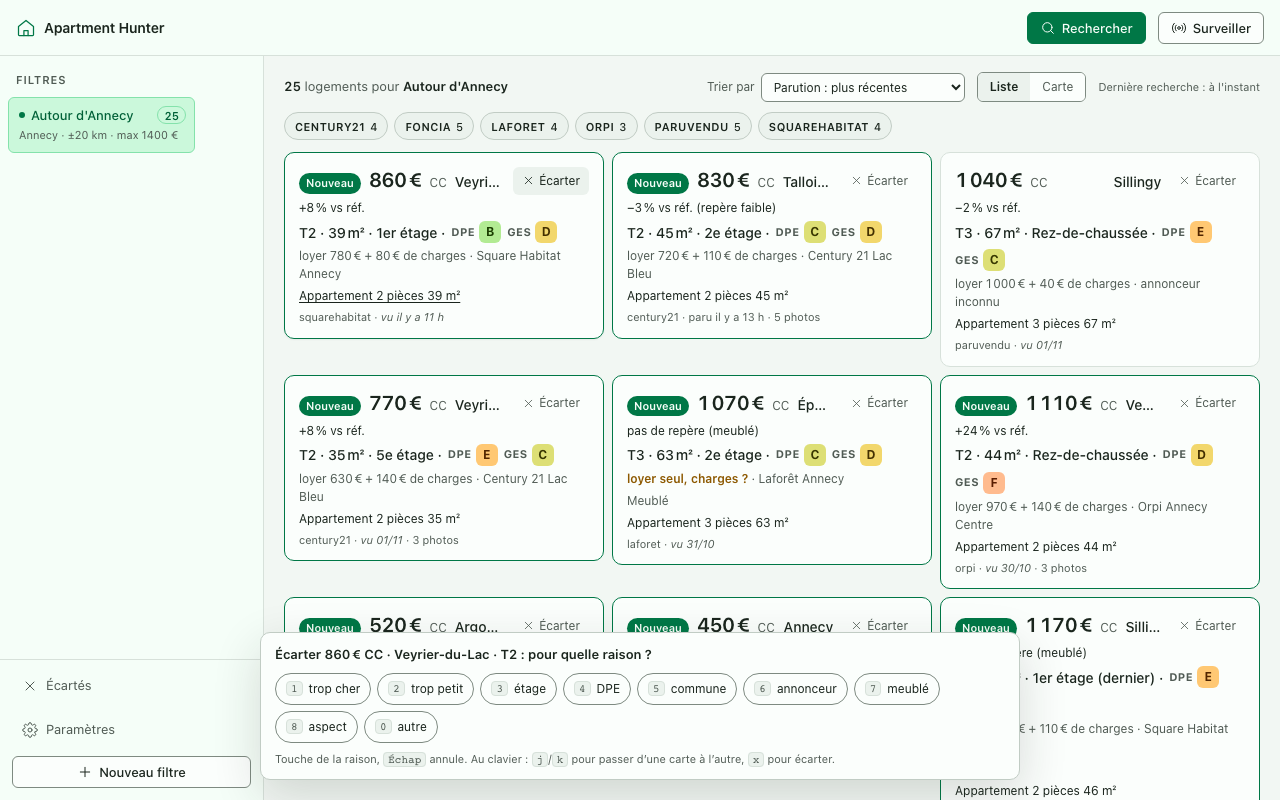
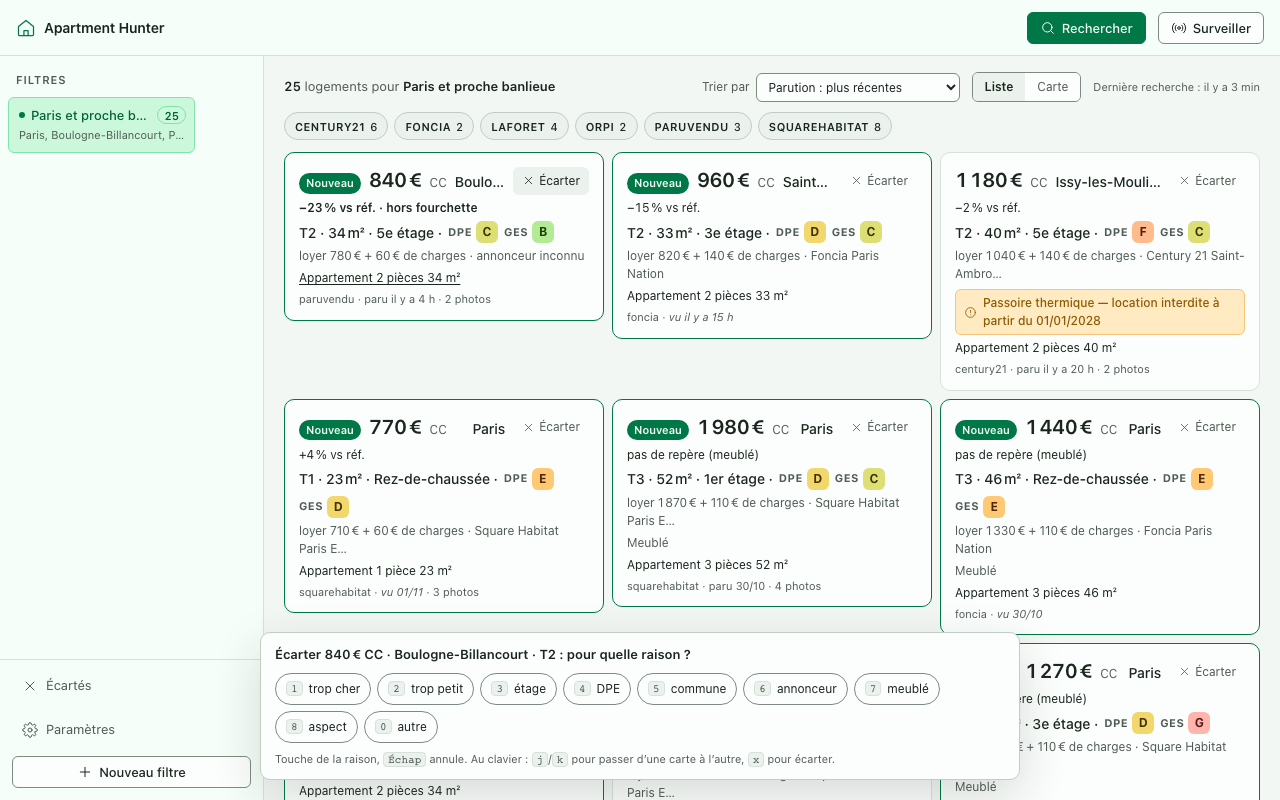
docs(demo): exemples, démo et captures à Paris

diff --git a/src/apartment_hunter/presentation/web/assets/index.html b/src/apartment_hunter/presentation/web/assets/index.html
@@ -95,7 +95,7 @@ catch { document.documentElement.dataset.theme = DEFAULT_THEME; }
         <legend>Zone de recherche</legend>
         <div class="form-group">
           <label for="fm-name">Nom du filtre <span class="required" aria-hidden="true">*</span></label>
-          <input type="text" id="fm-name" class="form-input" placeholder="ex. Annecy centre…" required
+          <input type="text" id="fm-name" class="form-input" placeholder="ex. Paris est…" required
                  aria-describedby="fm-name-error">
           <span class="form-error" id="fm-name-error">
             <svg class="icon icon-sm" aria-hidden="true"><use href="#i-alert"/></svg> Donnez un nom à ce filtre.
@@ -103,7 +103,7 @@ catch { document.documentElement.dataset.theme = DEFAULT_THEME; }
         </div>
         <div class="form-group">
           <label for="fm-cities">Villes <span class="required" aria-hidden="true">*</span></label>
-          <input type="text" id="fm-cities" class="form-input" placeholder="ex. Annecy, Seynod, Cran-Gevrier…" required
+          <input type="text" id="fm-cities" class="form-input" placeholder="ex. Paris, Montreuil, Vincennes…" required
                  aria-describedby="fm-cities-hint fm-cities-error">
           <span class="form-hint" id="fm-cities-hint">Séparées par des virgules.</span>
           <span class="form-error" id="fm-cities-error">
@@ -117,7 +117,7 @@ catch { document.documentElement.dataset.theme = DEFAULT_THEME; }
           </div>
           <div class="form-group">
             <label for="fm-excluded">Villes exclues</label>
-            <input type="text" id="fm-excluded" class="form-input" placeholder="ex. Rumilly, Aix-les-Bains…"
+            <input type="text" id="fm-excluded" class="form-input" placeholder="ex. Saint-Denis, Aubervilliers…"
                    aria-describedby="fm-excluded-hint">
             <span class="form-hint" id="fm-excluded-hint">Séparées par des virgules.</span>
           </div>

diff --git a/scripts/seed_demo.py b/scripts/seed_demo.py
@@ -1,4 +1,4 @@
-"""Fill a demo database with fictitious homes around Annecy, to try the app without crawling.
+"""Fill a demo database with fictitious homes in and around Paris, to try the app without crawling.
 
     uv run python scripts/seed_demo.py demo.db
     DATABASE_URL=demo.db uv run hunt serve
@@ -32,32 +32,37 @@ from apartment_hunter.domain.value_objects import (
 from apartment_hunter.infrastructure.crawlers.base_crawler import build_listing_id
 from apartment_hunter.infrastructure.storage.sqlite_repository import SqliteRepository
 
-_SEED: Final = 74000
+_SEED: Final = 75000
 _LISTING_COUNT: Final = 36
 _FILTER_ID: Final = "demo"
-# Communes within 20 km of Annecy, Annecy twice as often. Like most sources, a demo
-# listing names its commune only: the map pins it at the commune, one pin per commune.
-_COMMUNES: Final = (
-    "Annecy",
-    "Annecy",
-    "Sevrier",
-    "Veyrier-du-Lac",
-    "Argonay",
-    "Poisy",
-    "Épagny Metz-Tessy",
-    "Sillingy",
-    "Saint-Jorioz",
-    "Talloires-Montmin",
-    "Villaz",
+# Paris and the inner suburbs, Paris most often. Like most sources, a demo listing names
+# its commune only: the map pins it at the commune, one pin per commune. Rent references
+# load for the filter cities' departments only, hence one filter city per department.
+_FILTER_CITIES: Final = ["Paris", "Boulogne-Billancourt", "Pantin", "Vincennes"]
+_SUBURBS: Final = (
+    "Boulogne-Billancourt",
+    "Issy-les-Moulineaux",
+    "Levallois-Perret",
+    "Montreuil",
+    "Vincennes",
+    "Saint-Mandé",
+    "Ivry-sur-Seine",
 )
+_PARIS_SHARE: Final = 0.6
+# A Paris home carries its arrondissement's postal code: the rent map has no row for
+# Paris as a whole, only one per arrondissement.
+_PARIS_ARRONDISSEMENTS: Final = (3, 5, 9, 10, 11, 11, 12, 13, 14, 15, 15, 17, 18, 19, 20)
+# €/m² per month, drawn per listing: Paris above its suburbs, as on the Carte des loyers.
+_PARIS_RENT_PER_M2: Final = (27, 38)
+_SUBURB_RENT_PER_M2: Final = (20, 29)
 _SOURCES: Final = ("orpi", "foncia", "century21", "laforet", "paruvendu", "squarehabitat")
 # Each network's ads carry one of its own branches; ParuVendu is mostly private owners.
 _AGENCIES: Final = {
-    "orpi": "Orpi Annecy Centre",
-    "foncia": "Foncia Lac",
-    "century21": "Century 21 Lac Bleu",
-    "laforet": "Laforêt Annecy",
-    "squarehabitat": "Square Habitat Annecy",
+    "orpi": "Orpi Paris Bastille",
+    "foncia": "Foncia Paris Nation",
+    "century21": "Century 21 Saint-Ambroise",
+    "laforet": "Laforêt Paris 15",
+    "squarehabitat": "Square Habitat Paris Est",
 }
 # Faker draws a dict's keys weighted by their values: mostly C and D, as in the area.
 _DPE_WEIGHTS: Final = OrderedDict(
@@ -66,13 +71,16 @@ _DPE_WEIGHTS: Final = OrderedDict(
 
 
 def build_demo_listings(fake: Faker, now: datetime) -> list[Listing]:
-    """Fictitious but plausible homes: rents by size, scattered over the radius."""
+    """Fictitious but plausible homes: rents by size and place, scattered over the radius."""
     listings: list[Listing] = []
     for index in range(_LISTING_COUNT):
-        city = fake.random_element(_COMMUNES)
+        in_paris = fake.random.random() < _PARIS_SHARE
+        city = "Paris" if in_paris else fake.random_element(_SUBURBS)
+        postal_code = f"750{fake.random_element(_PARIS_ARRONDISSEMENTS):02d}" if in_paris else None
+        rent_low, rent_high = _PARIS_RENT_PER_M2 if in_paris else _SUBURB_RENT_PER_M2
         rooms = fake.random_element((1, 1, 2, 2, 2, 3, 3, 4))
-        surface = fake.random_int(18, 30) + (rooms - 1) * fake.random_int(14, 22)
-        rent = Decimal(round(surface * fake.random_int(15, 23) / 10) * 10)
+        surface = fake.random_int(14, 26) + (rooms - 1) * fake.random_int(12, 19)
+        rent = Decimal(round(surface * fake.random_int(rent_low, rent_high) / 10) * 10)
         charges = Decimal(fake.random_element((0, 40, 60, 80, 110, 140)))
         source = fake.random_element(_SOURCES)
         url = f"https://example.org/annonce/{source}/{fake.uuid4()}"
@@ -83,7 +91,7 @@ def build_demo_listings(fake: Faker, now: datetime) -> list[Listing]:
                 url=url,
                 title=f"Appartement {rooms} pièce{'s' if rooms > 1 else ''} {surface} m²",
                 source=source,
-                location=Location(city=city),
+                location=Location(city=city, postal_code=postal_code),
                 price=Price(amount=rent, charges=charges or None),
                 published_at=published,
                 published_at_source=(
@@ -117,18 +125,18 @@ async def seed(path: str) -> None:
     finally:
         # An open connection keeps its thread alive: an error would hang instead of exit.
         await repository.close()
-    print(f"{_LISTING_COUNT} fictitious listings in {path}, filter « Autour d'Annecy ».")
+    print(f"{_LISTING_COUNT} fictitious listings in {path}, filter « Paris et proche banlieue ».")
 
 
 async def _fill(repository: SqliteRepository, fake: Faker, now: datetime) -> None:
     await repository.save_filter(
         SearchFilter(
             id=_FILTER_ID,
-            name="Autour d'Annecy",
-            cities=["Annecy"],
-            radius_km=20,
-            max_price=1400,
-            min_surface_m2=25,
+            name="Paris et proche banlieue",
+            cities=_FILTER_CITIES,
+            radius_km=10,
+            max_price=2000,
+            min_surface_m2=20,
         )
     )
     listings = build_demo_listings(fake, now)

diff --git a/scripts/seed_filters.py b/scripts/seed_filters.py
@@ -16,13 +16,13 @@ from apartment_hunter.infrastructure.container import Container
 
 FILTERS: list[SearchFilter] = [
     SearchFilter(
-        id="annecy-01",
-        name="Annecy premium",
-        cities=["Annecy"],
-        radius_km=25.0,
-        excluded_cities=["Rumilly", "Aix-les-Bains", "Seynod"],
-        min_price=800,
-        max_price=1400,
+        id="paris-01",
+        name="Paris premium",
+        cities=["Paris"],
+        radius_km=8.0,
+        excluded_cities=["Saint-Denis", "Aubervilliers", "Ivry-sur-Seine"],
+        min_price=1600,
+        max_price=2800,
         min_surface_m2=55.0,
         min_rooms=3,
         furnished=None,
@@ -35,13 +35,13 @@ FILTERS: list[SearchFilter] = [
         enabled=True,
     ),
     SearchFilter(
-        id="annecy-02",
+        id="paris-02",
         name="Studio économique",
-        cities=["Annecy"],
-        radius_km=20.0,
+        cities=["Paris"],
+        radius_km=8.0,
         excluded_cities=[],
-        min_price=450,
-        max_price=750,
+        min_price=700,
+        max_price=1100,
         min_surface_m2=20.0,
         max_surface_m2=40.0,
         min_rooms=1,
@@ -57,13 +57,13 @@ FILTERS: list[SearchFilter] = [
         enabled=True,
     ),
     SearchFilter(
-        id="annecy-03",
+        id="paris-03",
         name="Grand appart famille",
-        cities=["Annecy", "Cran-Gevrier", "Épagny"],
-        radius_km=15.0,
+        cities=["Paris", "Vincennes", "Montreuil"],
+        radius_km=6.0,
         excluded_cities=[],
-        min_price=1200,
-        max_price=2000,
+        min_price=2000,
+        max_price=3500,
         min_surface_m2=80.0,
         min_rooms=4,
         furnished=False,
@@ -76,13 +76,13 @@ FILTERS: list[SearchFilter] = [
         enabled=True,
     ),
     SearchFilter(
-        id="annecy-04",
+        id="paris-04",
         name="Dernier étage",
-        cities=["Annecy"],
-        radius_km=30.0,
+        cities=["Paris"],
+        radius_km=10.0,
         excluded_cities=[],
-        min_price=700,
-        max_price=1600,
+        min_price=1100,
+        max_price=2400,
         min_surface_m2=40.0,
         exclude_ground_floor=True,
         exclude_first_floor=True,
@@ -92,13 +92,13 @@ FILTERS: list[SearchFilter] = [
         enabled=True,
     ),
     SearchFilter(
-        id="annecy-05",
+        id="paris-05",
         name="Propriétaires directs",
-        cities=["Annecy"],
-        radius_km=20.0,
+        cities=["Paris"],
+        radius_km=10.0,
         excluded_cities=[],
-        min_price=600,
-        max_price=1100,
+        min_price=900,
+        max_price=1600,
         min_surface_m2=40.0,
         accepted_dpe_ratings=DpeRating.up_to(DpeRating.D),
         min_photos=1,

diff --git a/src/apartment_hunter/presentation/cli/filter_wizard.py b/src/apartment_hunter/presentation/cli/filter_wizard.py
@@ -15,7 +15,7 @@ from ...domain.value_objects import DpeRating
 from ..tri_state import CHOICES, INDIFFERENT, parse_tri_state
 
 FILTER_ID_LENGTH = 8
-_DEFAULT_CITY = "Annecy"
+_DEFAULT_CITY = "Paris"
 
 
 def ask_filter() -> SearchFilter:

diff --git a/docs/functional/filters.md b/docs/functional/filters.md
@@ -12,7 +12,7 @@ appel au géocodeur, limité à un par seconde). La recherche est géographique 
 exact.
 
 ```
-Exemples : Annecy, Lyon, Grenoble, Chambéry
+Exemples : Paris, Lyon, Marseille, Bordeaux
 ```
 
 ### `radius_km` — Rayon de recherche
@@ -31,7 +31,7 @@ Accepté : 1 à 150 km (au-delà, le filtre est refusé — le crawl s'étendrai
 Villes à exclure explicitement, même si elles sont dans le rayon. Utile pour éliminer des villes proches non désirées.
 
 ```
-Exemple avec Annecy ±30km : exclure Rumilly, Aix-les-Bains
+Exemple avec Paris ±10km : exclure Saint-Denis, Aubervilliers
 ```
 
 Le matching sur les villes exclues est insensible à la casse et fonctionne par nom exact.
@@ -215,12 +215,12 @@ Un filtre désactivé n'est pas utilisé en mode `watch`.
 ```yaml
 # config/filters.example.yml
 filters:
-  - name: "Annecy région - 3p meublé"
-    cities: ["Annecy"]
-    radius_km: 30
-    excluded_cities: ["Rumilly", "Aix-les-Bains"]
-    min_price: 700
-    max_price: 1300
+  - name: "Paris et proche banlieue - 3p meublé"
+    cities: ["Paris"]
+    radius_km: 10
+    excluded_cities: ["Saint-Denis", "Aubervilliers"]
+    min_price: 1200
+    max_price: 2200
     min_surface_m2: 50
     min_rooms: 2
     max_rooms: 4
@@ -249,9 +249,9 @@ Les flags mappent le formulaire web « Modifier le filtre » 1:1.
 
 ```bash
 hunt search \
-  --city Annecy --radius 20 \
-  --exclude "Rumilly,Aix-les-Bains,Annemasse" \
-  --max-price 1200 --min-surface 45 \
+  --city Paris --radius 8 \
+  --exclude "Saint-Denis,Aubervilliers,Ivry-sur-Seine" \
+  --max-price 1800 --min-surface 35 \
   --unfurnished --no-ground-floor --no-first-floor \
   --dpe A,B,C,D -n 25
 ```

diff --git a/docs/functional/notifications.md b/docs/functional/notifications.md
@@ -9,7 +9,7 @@ Deux canaux, sans config : **terminal** (mode `watch`/`search`) et **signal in-a
 `TerminalNotifier` imprime un bloc clair quand de nouvelles annonces correspondent à un filtre :
 
 ```
-🔔 3 nouvelles annonces · Annecy centre
+🔔 3 nouvelles annonces · Paris est
   • Appartement 3p 65m² · 65m² · 3p · 1 210 € CC · DPE C · GES B · paru 30/10/2026 · −12 % vs réf.
     https://www.pap.fr/annonces/...
   • Appartement 2p 48m² · 48m² · 2p · 780 € · charges non communiquées · vu 31/10/2026 · pas de repère (charges inconnues)
@@ -67,7 +67,7 @@ Les notifieurs email (`aiosmtplib`), desktop (`plyer`) et macOS (`osascript`) on
 ## Logs
 
 ```
-07:42:13 | INFO | Notified 3 new listings for filter 'Annecy meublé'
+07:42:13 | INFO | Notified 3 new listings for filter 'Paris meublé'
 ```
 
 Niveau configurable via `LOG_LEVEL=DEBUG`.

diff --git a/README.md b/README.md
@@ -49,7 +49,7 @@ chaque commit (ruff, format, mypy strict, tests).
 
 ### Essayer sans rien crawler
 
-Une base de démonstration, remplie d'annonces fictives autour d'Annecy :
+Une base de démonstration, remplie d'annonces fictives à Paris et en proche banlieue :
 
 ```bash
 uv run python scripts/seed_demo.py demo.db
@@ -135,9 +135,9 @@ hunt search --limit 20             # Plus de résultats
 
 # Recherche ad-hoc (sans filtre sauvegardé) — mappe le formulaire web 1:1
 hunt search \
-  --city Annecy --radius 20 \
-  --exclude "Rumilly,Aix-les-Bains,Annemasse" \
-  --max-price 1200 --min-surface 45 \
+  --city Paris --radius 8 \
+  --exclude "Saint-Denis,Aubervilliers,Ivry-sur-Seine" \
+  --max-price 1800 --min-surface 35 \
   --unfurnished --no-ground-floor --no-first-floor \
   --dpe A,B,C,D -n 25
 

diff --git a/docs/functional/overview.md b/docs/functional/overview.md
@@ -58,7 +58,7 @@ Lance une recherche immédiate sur toutes les sources et affiche les 10 meilleur
 
 ```bash
 hunt search
-hunt search --filter "Annecy meublé" --limit 20
+hunt search --filter "Paris meublé" --limit 20
 ```
 
 **Ce qu'il se passe :**
@@ -123,7 +123,7 @@ par la parution la plus récente. La CLI, elle, affiche toujours l'ordre par par
 
 ## Géocodage et rayon de recherche
 
-La correspondance par rayon (ex: "Annecy ±30km") utilise :
+La correspondance par rayon (ex: "Paris ±10km") utilise :
 1. **Nominatim** (OpenStreetMap, gratuit) pour convertir un nom de ville en coordonnées GPS
 2. **Haversine** (via geopy) pour calculer la distance réelle en km
 

diff --git a/docs/technical/scheduler.md b/docs/technical/scheduler.md
@@ -155,11 +155,11 @@ Tous les filtres actifs sont vérifiés à chaque cycle. Chaque filtre a sa prop
 
 ```
 Cycle #1:
-    filtre "Annecy meublé"   → 3 nouvelles annonces → notifiées → marquées
+    filtre "Paris meublé"    → 3 nouvelles annonces → notifiées → marquées
     filtre "Lyon studio"     → 1 nouvelle annonce   → notifiée  → marquée
 
 Cycle #2:
-    filtre "Annecy meublé"   → 0 nouvelle → rien
+    filtre "Paris meublé"    → 0 nouvelle → rien
     filtre "Lyon studio"     → 2 nouvelles → notifiées → marquées
 ```
 
